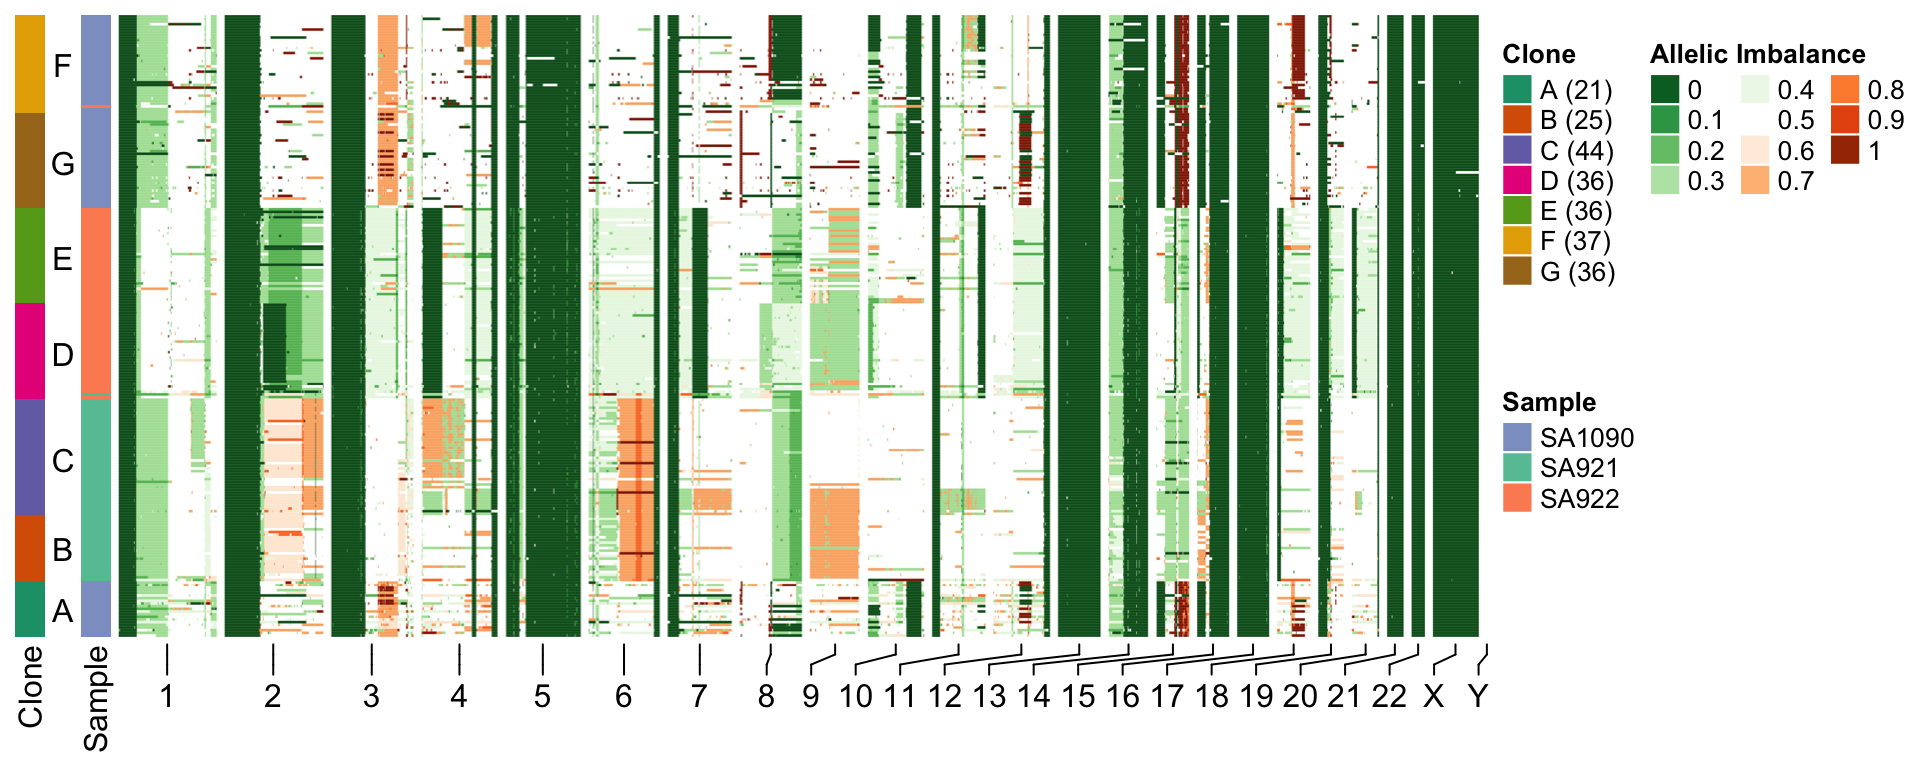
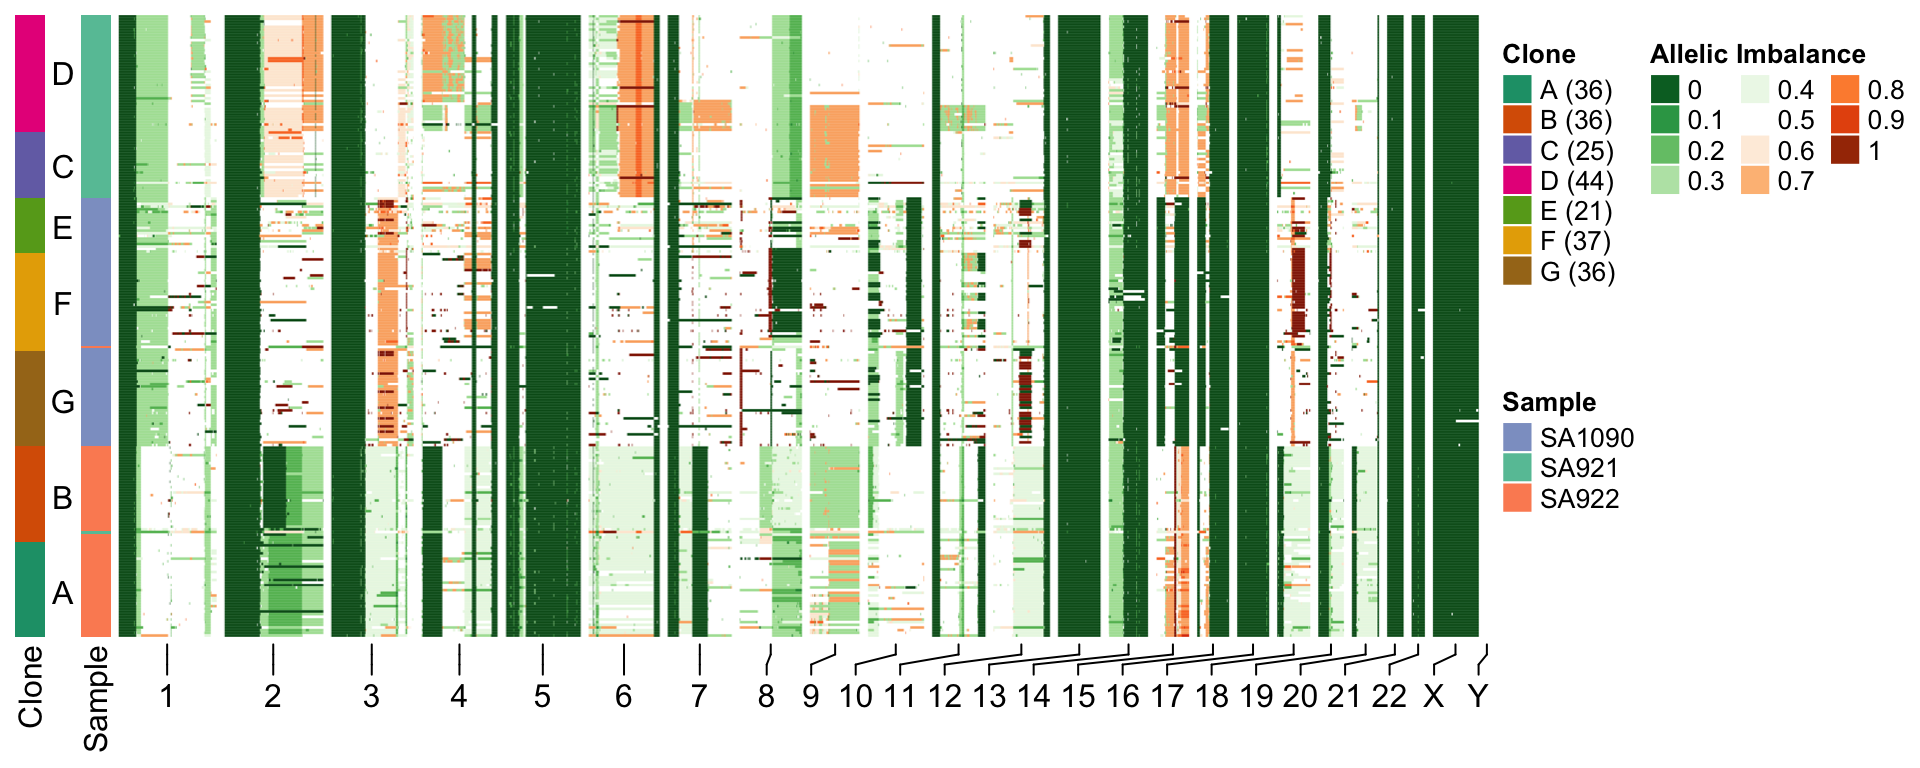
Built site for schnapps: 0.1.0@37acae2

Changed region(s): [[0.0, 0.0, 0.7188, 0.8438], [0.8125, 0.0938, 0.8438, 0.2812]]

diff --git a/articles/BetaBinom.html b/articles/BetaBinom.html
@@ -102,8 +102,8 @@
 <span class="no">haplotypes</span> <span class="kw">&lt;-</span> <span class="fu">format_haplotypes_dlp</span>(<span class="no">haplotypes</span>, <span class="no">CNbins</span>)
 <span class="no">hscn</span> <span class="kw">&lt;-</span> <span class="fu"><a href="../reference/callHaplotypeSpecificCN.html">callHaplotypeSpecificCN</a></span>(<span class="no">CNbins</span>, <span class="no">haplotypes</span>, <span class="kw">likelihood</span> <span class="kw">=</span> <span class="st">"binomial"</span>)
 <span class="co">#&gt; </span>
-<span class="co">#&gt;  A  B  C </span>
-<span class="co">#&gt; 90 72 73</span>
+<span class="co">#&gt;  A  B  C  D </span>
+<span class="co">#&gt; 90 72 37 36</span>
 
 <span class="fu"><a href="https://rdrr.io/r/base/print.html">print</a></span>(<span class="no">hscn</span>)
 <span class="co">#&gt; Haplotype specific copy number object </span>
@@ -144,7 +144,7 @@
 <div class="sourceCode" id="cb3"><html><body><pre class="r"><span class="fu">plotHeatmap</span>(<span class="no">hscn</span>, <span class="kw">plotcol</span> <span class="kw">=</span> <span class="st">"state_BAF"</span>, <span class="kw">plottree</span> <span class="kw">=</span> <span class="fl">FALSE</span>, <span class="kw">spacer_cols</span> <span class="kw">=</span> <span class="fl">15</span>)
 <span class="co">#&gt; </span>
 <span class="co">#&gt;  A  B  C  D  E  F  G </span>
-<span class="co">#&gt; 21 25 44 36 36 37 36</span></pre></body></html></div>
+<span class="co">#&gt; 36 36 25 44 21 37 36</span></pre></body></html></div>
 <p><img src="BetaBinom_files/figure-html/unnamed-chunk-3-1.png" width="960"></p>
 </div>
 <div id="beta-binomial-model" class="section level3">
@@ -164,26 +164,44 @@
 <p><img src="BetaBinom_files/figure-html/unnamed-chunk-5-1.png" width="960"></p>
 <p>We can check how similar the results are by comparing the two dataframes. We find for this data that the results are very similar.</p>
 <div class="sourceCode" id="cb6"><html><body><pre class="r"><span class="fu"><a href="https://rdrr.io/r/base/print.html">print</a></span>(<span class="fu"><a href="https://rdrr.io/r/base/dim.html">dim</a></span>(<span class="no">hscn</span>$<span class="no">data</span>))
-<span class="co">#&gt; [1] 507878     19</span>
+<span class="co">#&gt; [1] 507859     19</span>
 <span class="fu"><a href="https://rdrr.io/r/base/print.html">print</a></span>(<span class="fu"><a href="https://rdrr.io/r/base/dim.html">dim</a></span>(<span class="no">hscn_bb</span>$<span class="no">data</span>))
 <span class="co">#&gt; [1] 507878     19</span>
 <span class="fu"><a href="https://rdrr.io/r/base/all.equal.html">all.equal</a></span>(<span class="fu">orderdf</span>(<span class="no">hscn</span>$<span class="no">data</span>), <span class="fu">orderdf</span>(<span class="no">hscn_bb</span>$<span class="no">data</span>))
-<span class="co">#&gt; [1] "Component \"state_min\": Mean relative difference: 0.5903767"</span>
-<span class="co">#&gt; [2] "Component \"Maj\": Mean relative difference: 0.3549388"      </span>
-<span class="co">#&gt; [3] "Component \"Min\": Mean relative difference: 0.5137029"      </span>
-<span class="co">#&gt; [4] "Component \"state_AS_phased\": 5535 string mismatches"       </span>
-<span class="co">#&gt; [5] "Component \"state_AS\": 1601 string mismatches"              </span>
-<span class="co">#&gt; [6] "Component \"LOH\": 1385 string mismatches"                   </span>
-<span class="co">#&gt; [7] "Component \"phase\": 3354 string mismatches"                 </span>
-<span class="co">#&gt; [8] "Component \"state_phase\": 4371 string mismatches"           </span>
-<span class="co">#&gt; [9] "Component \"state_BAF\": Mean relative difference: 0.6628337"</span></pre></body></html></div>
+<span class="co">#&gt;  [1] "Attributes: &lt; Component \"row.names\": Numeric: lengths (507860, 507879) differ &gt;"              </span>
+<span class="co">#&gt;  [2] "Component \"chr\": Lengths (507860, 507879) differ (string compare on first 507860)"            </span>
+<span class="co">#&gt;  [3] "Component \"chr\": 65641 string mismatches"                                                     </span>
+<span class="co">#&gt;  [4] "Component \"start\": Numeric: lengths (507860, 507879) differ"                                  </span>
+<span class="co">#&gt;  [5] "Component \"end\": Numeric: lengths (507860, 507879) differ"                                    </span>
+<span class="co">#&gt;  [6] "Component \"cell_id\": Lengths (507860, 507879) differ (string compare on first 507860)"        </span>
+<span class="co">#&gt;  [7] "Component \"cell_id\": 'is.NA' value mismatch: 0 in current 1 in target"                        </span>
+<span class="co">#&gt;  [8] "Component \"state\": Numeric: lengths (507860, 507879) differ"                                  </span>
+<span class="co">#&gt;  [9] "Component \"copy\": Numeric: lengths (507860, 507879) differ"                                   </span>
+<span class="co">#&gt; [10] "Component \"alleleA\": Numeric: lengths (507860, 507879) differ"                                </span>
+<span class="co">#&gt; [11] "Component \"alleleB\": Numeric: lengths (507860, 507879) differ"                                </span>
+<span class="co">#&gt; [12] "Component \"totalcounts\": Numeric: lengths (507860, 507879) differ"                            </span>
+<span class="co">#&gt; [13] "Component \"BAF\": Numeric: lengths (507860, 507879) differ"                                    </span>
+<span class="co">#&gt; [14] "Component \"state_min\": Numeric: lengths (507860, 507879) differ"                              </span>
+<span class="co">#&gt; [15] "Component \"Maj\": Numeric: lengths (507860, 507879) differ"                                    </span>
+<span class="co">#&gt; [16] "Component \"Min\": Numeric: lengths (507860, 507879) differ"                                    </span>
+<span class="co">#&gt; [17] "Component \"state_AS_phased\": Lengths (507860, 507879) differ (string compare on first 507860)"</span>
+<span class="co">#&gt; [18] "Component \"state_AS_phased\": 'is.NA' value mismatch: 0 in current 1 in target"                </span>
+<span class="co">#&gt; [19] "Component \"state_AS\": Lengths (507860, 507879) differ (string compare on first 507860)"       </span>
+<span class="co">#&gt; [20] "Component \"state_AS\": 'is.NA' value mismatch: 0 in current 1 in target"                       </span>
+<span class="co">#&gt; [21] "Component \"LOH\": Lengths (507860, 507879) differ (string compare on first 507860)"            </span>
+<span class="co">#&gt; [22] "Component \"LOH\": 'is.NA' value mismatch: 0 in current 1 in target"                            </span>
+<span class="co">#&gt; [23] "Component \"phase\": Lengths (507860, 507879) differ (string compare on first 507860)"          </span>
+<span class="co">#&gt; [24] "Component \"phase\": 'is.NA' value mismatch: 0 in current 1 in target"                          </span>
+<span class="co">#&gt; [25] "Component \"state_phase\": Lengths (507860, 507879) differ (string compare on first 507860)"    </span>
+<span class="co">#&gt; [26] "Component \"state_phase\": 'is.NA' value mismatch: 0 in current 1 in target"                    </span>
+<span class="co">#&gt; [27] "Component \"state_BAF\": Numeric: lengths (507860, 507879) differ"</span></pre></body></html></div>
 <p>Another thing we can check is the total number of segments identified by the HMM. Using the beta-binomial model should reduce the influence of any noisy regions and thus we might expect fewer segments. We do observe fewer segments in the beta-binomial model.</p>
 <div class="sourceCode" id="cb7"><html><body><pre class="r"><span class="no">segs</span> <span class="kw">&lt;-</span> <span class="fu">create_segments</span>(<span class="no">hscn</span>$<span class="no">data</span>, <span class="kw">field</span> <span class="kw">=</span> <span class="st">"state_AS_phased"</span>)
 
 <span class="no">segs_bb</span> <span class="kw">&lt;-</span> <span class="fu">create_segments</span>(<span class="no">hscn_bb</span>$<span class="no">data</span>, <span class="kw">field</span> <span class="kw">=</span> <span class="st">"state_AS_phased"</span>)
 
 <span class="fu"><a href="https://rdrr.io/r/base/print.html">print</a></span>(<span class="fu"><a href="https://rdrr.io/r/base/dim.html">dim</a></span>(<span class="no">segs</span>))
-<span class="co">#&gt; [1] 34454     5</span>
+<span class="co">#&gt; [1] 34140     5</span>
 <span class="fu"><a href="https://rdrr.io/r/base/print.html">print</a></span>(<span class="fu"><a href="https://rdrr.io/r/base/dim.html">dim</a></span>(<span class="no">segs_bb</span>))
 <span class="co">#&gt; [1] 31224     5</span></pre></body></html></div>
 </div>
